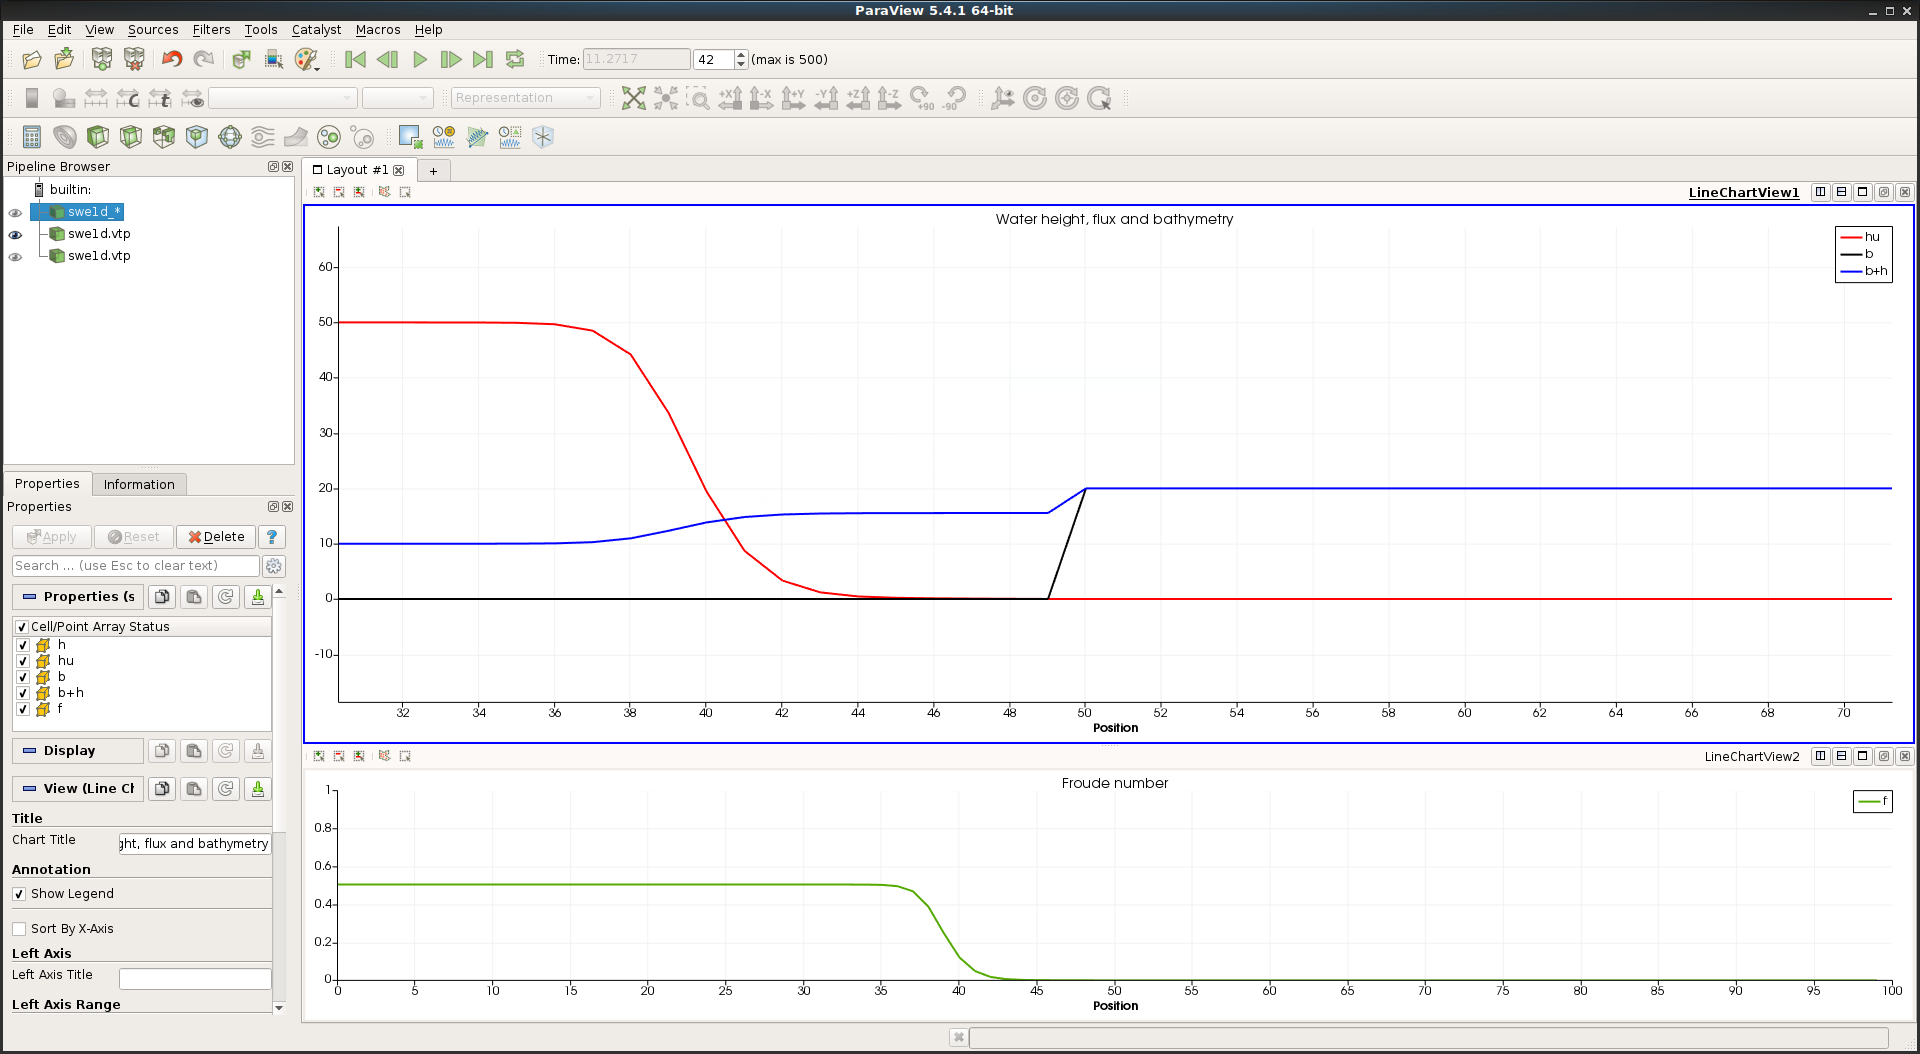
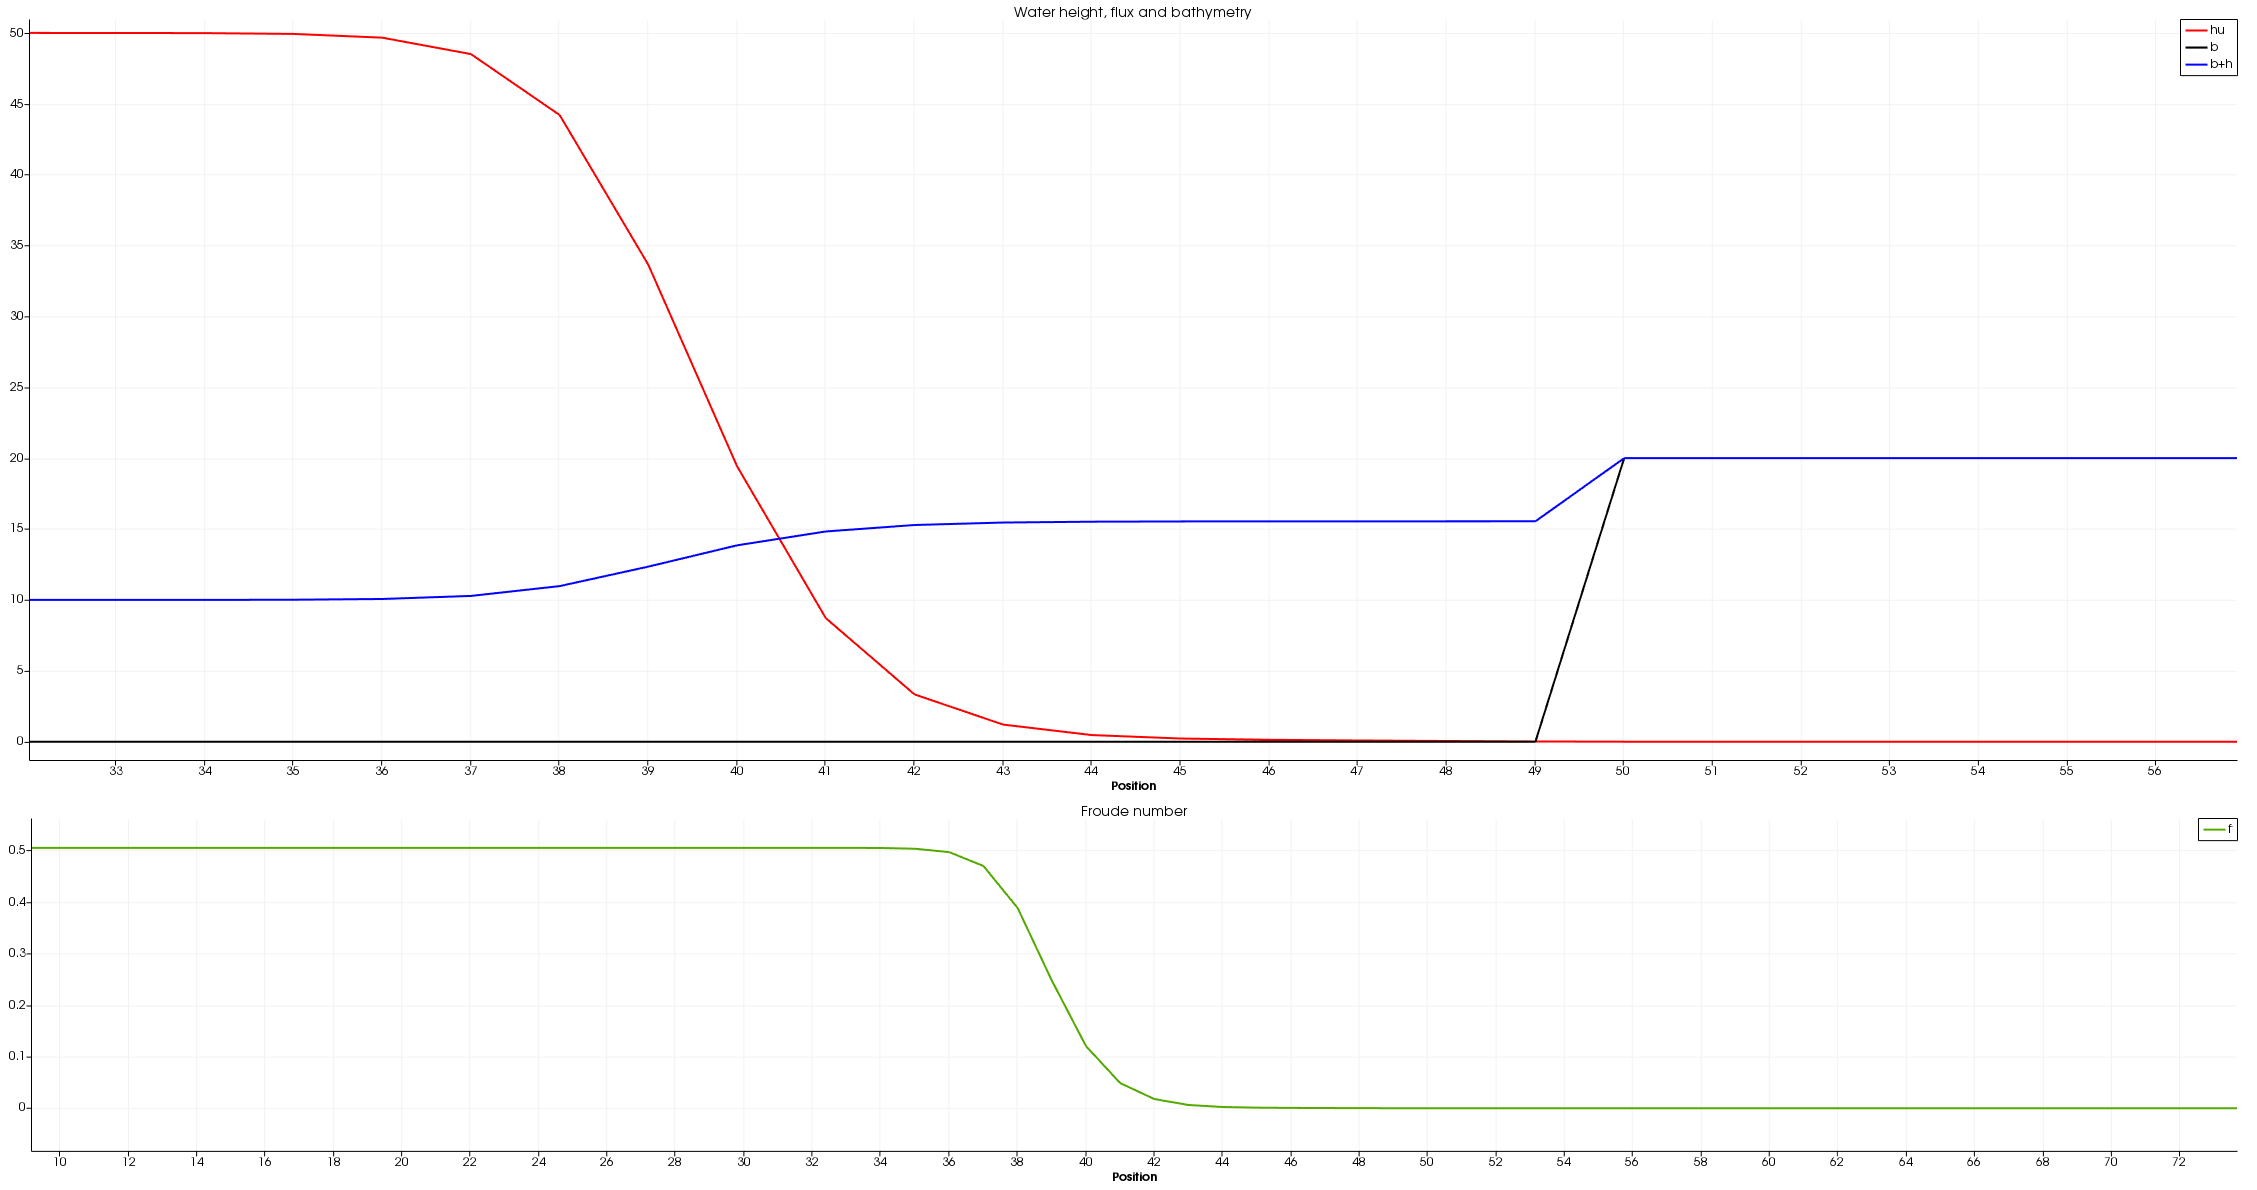
Improved pictures from scenarios

diff --git a/documentation/presentation2/assignment2.tex b/documentation/presentation2/assignment2.tex
@@ -115,7 +115,7 @@
 
 \begin{frame}{Hydraulic jump: Supercritical scenario}
 	\begin{figure}
-		\includegraphics[clip, width=\imgfullscale\linewidth]{img/dummy_image.jpg}
+		\includegraphics[clip, width=\imgfullscale\linewidth]{img/Supcritical.png}
 	\end{figure}
 	Some very nice text\\
 	Position of stationary discontinuity
